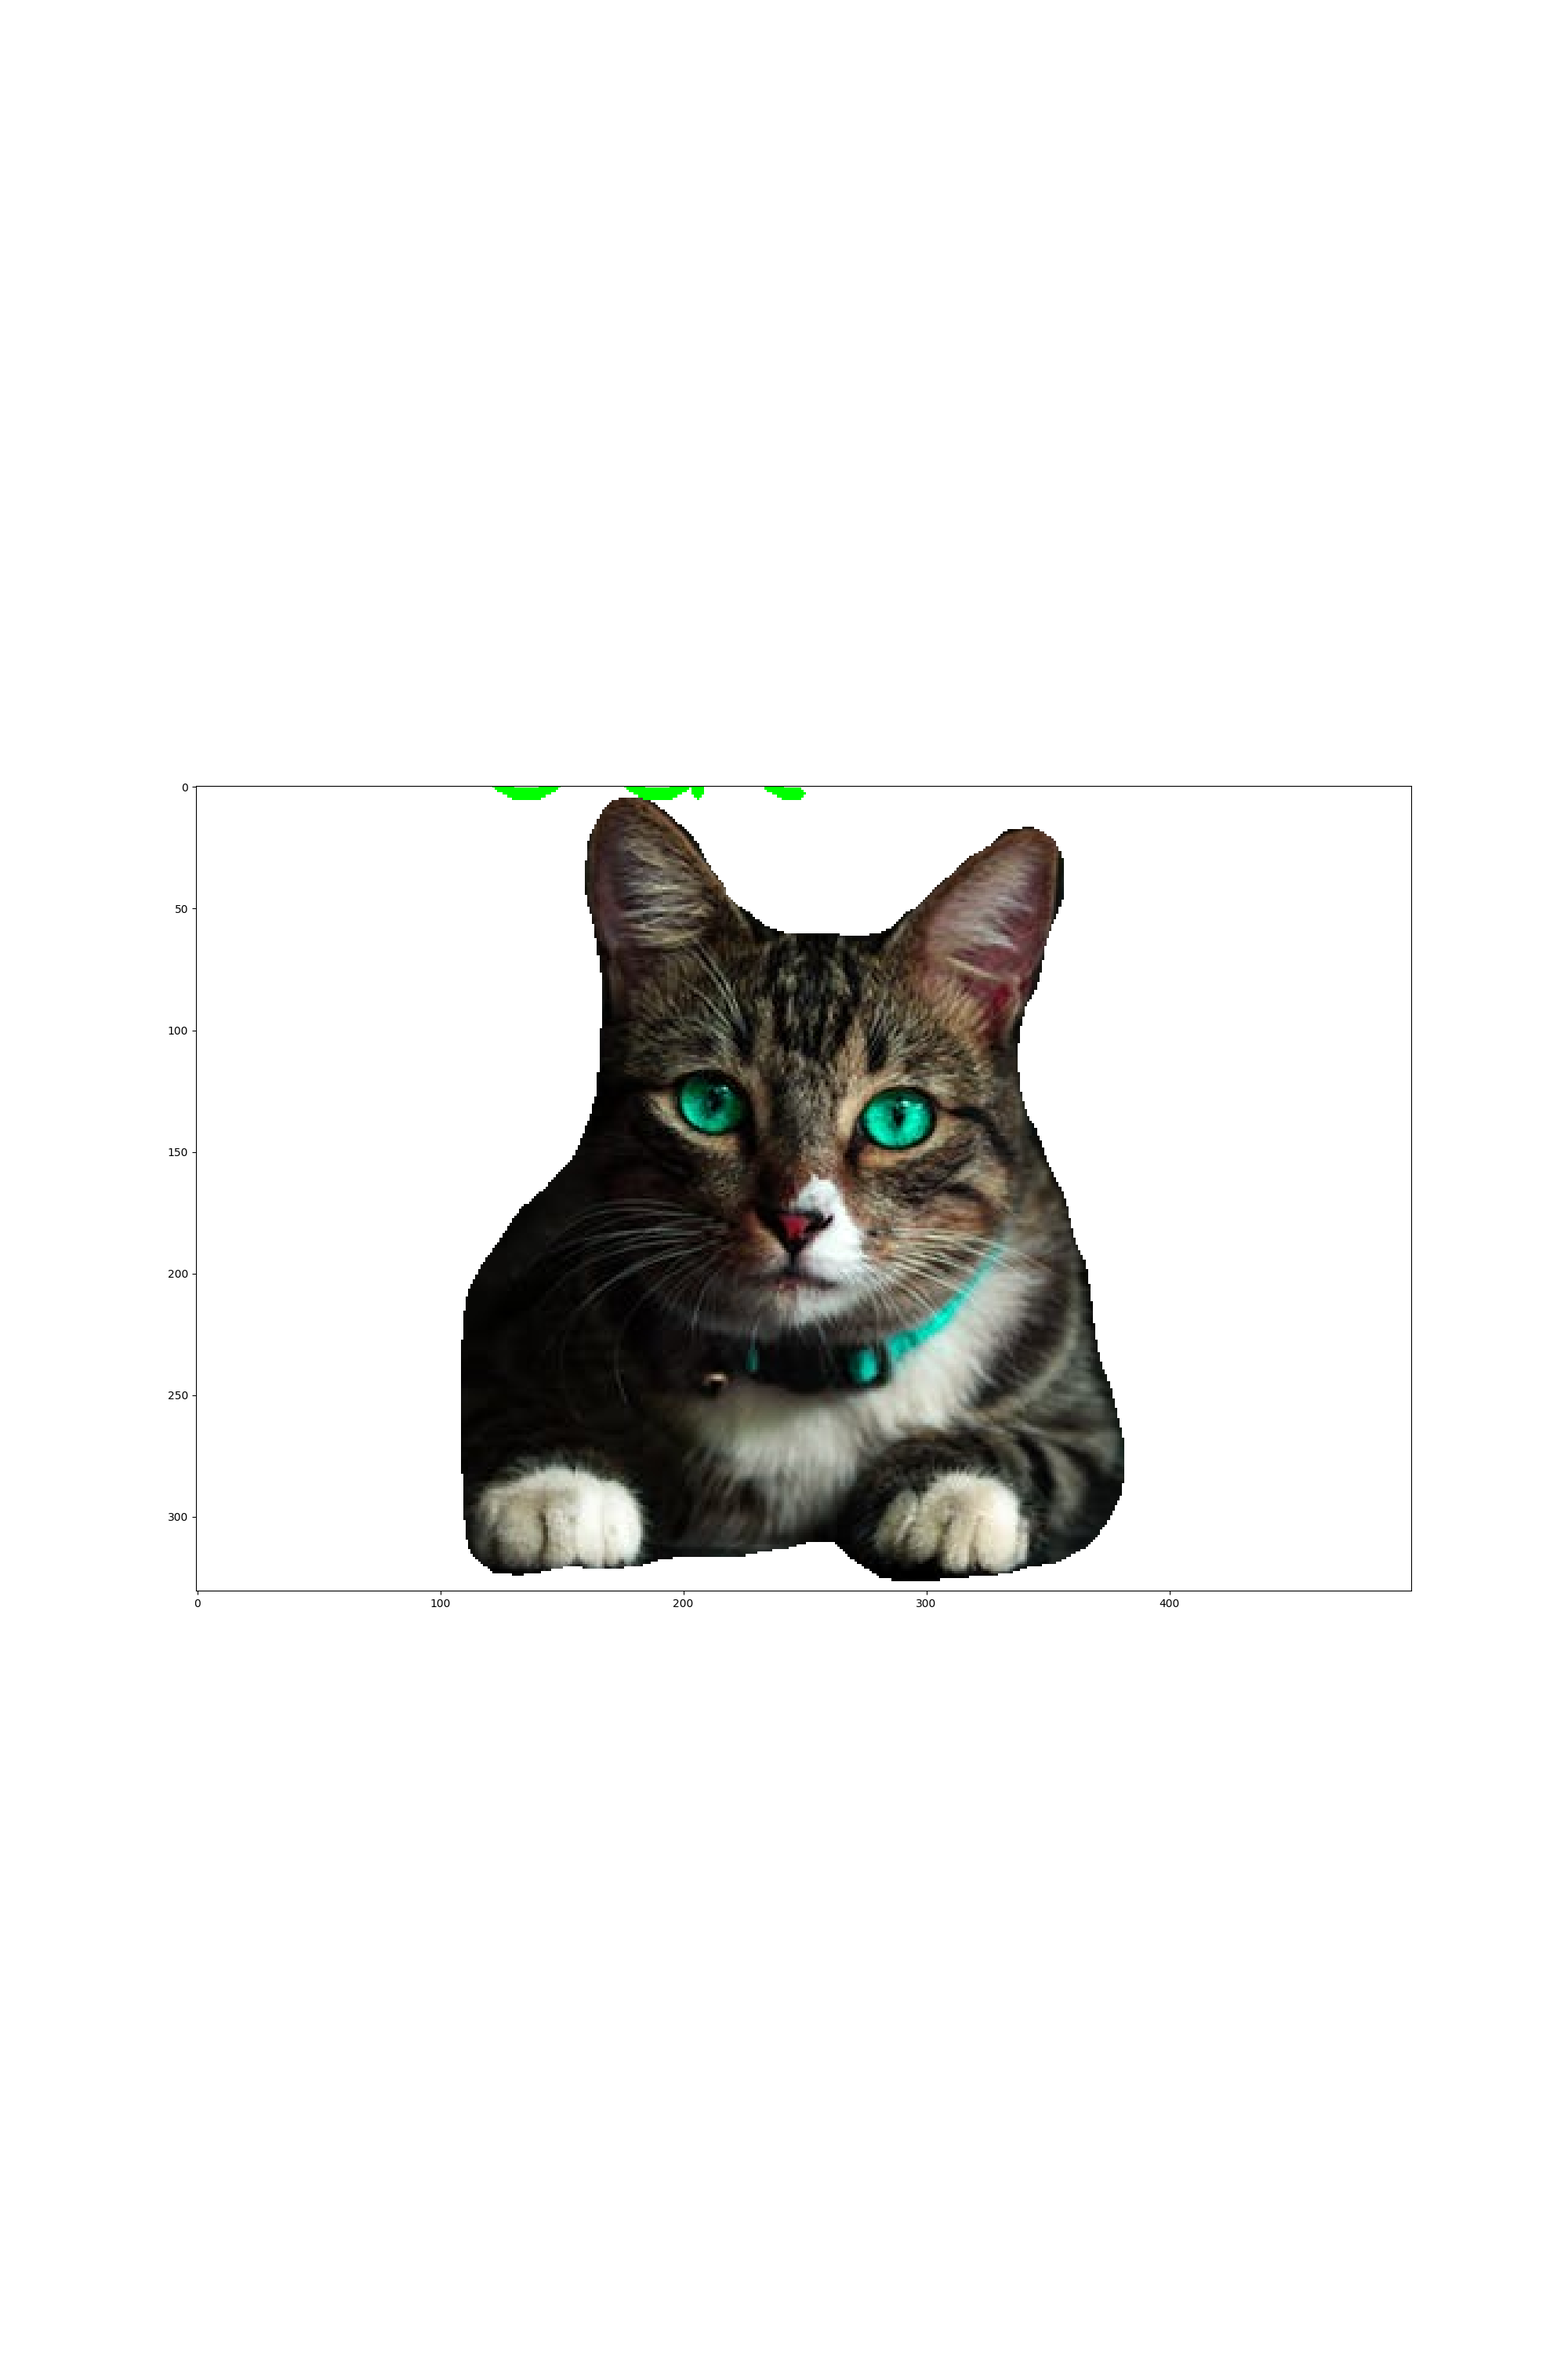
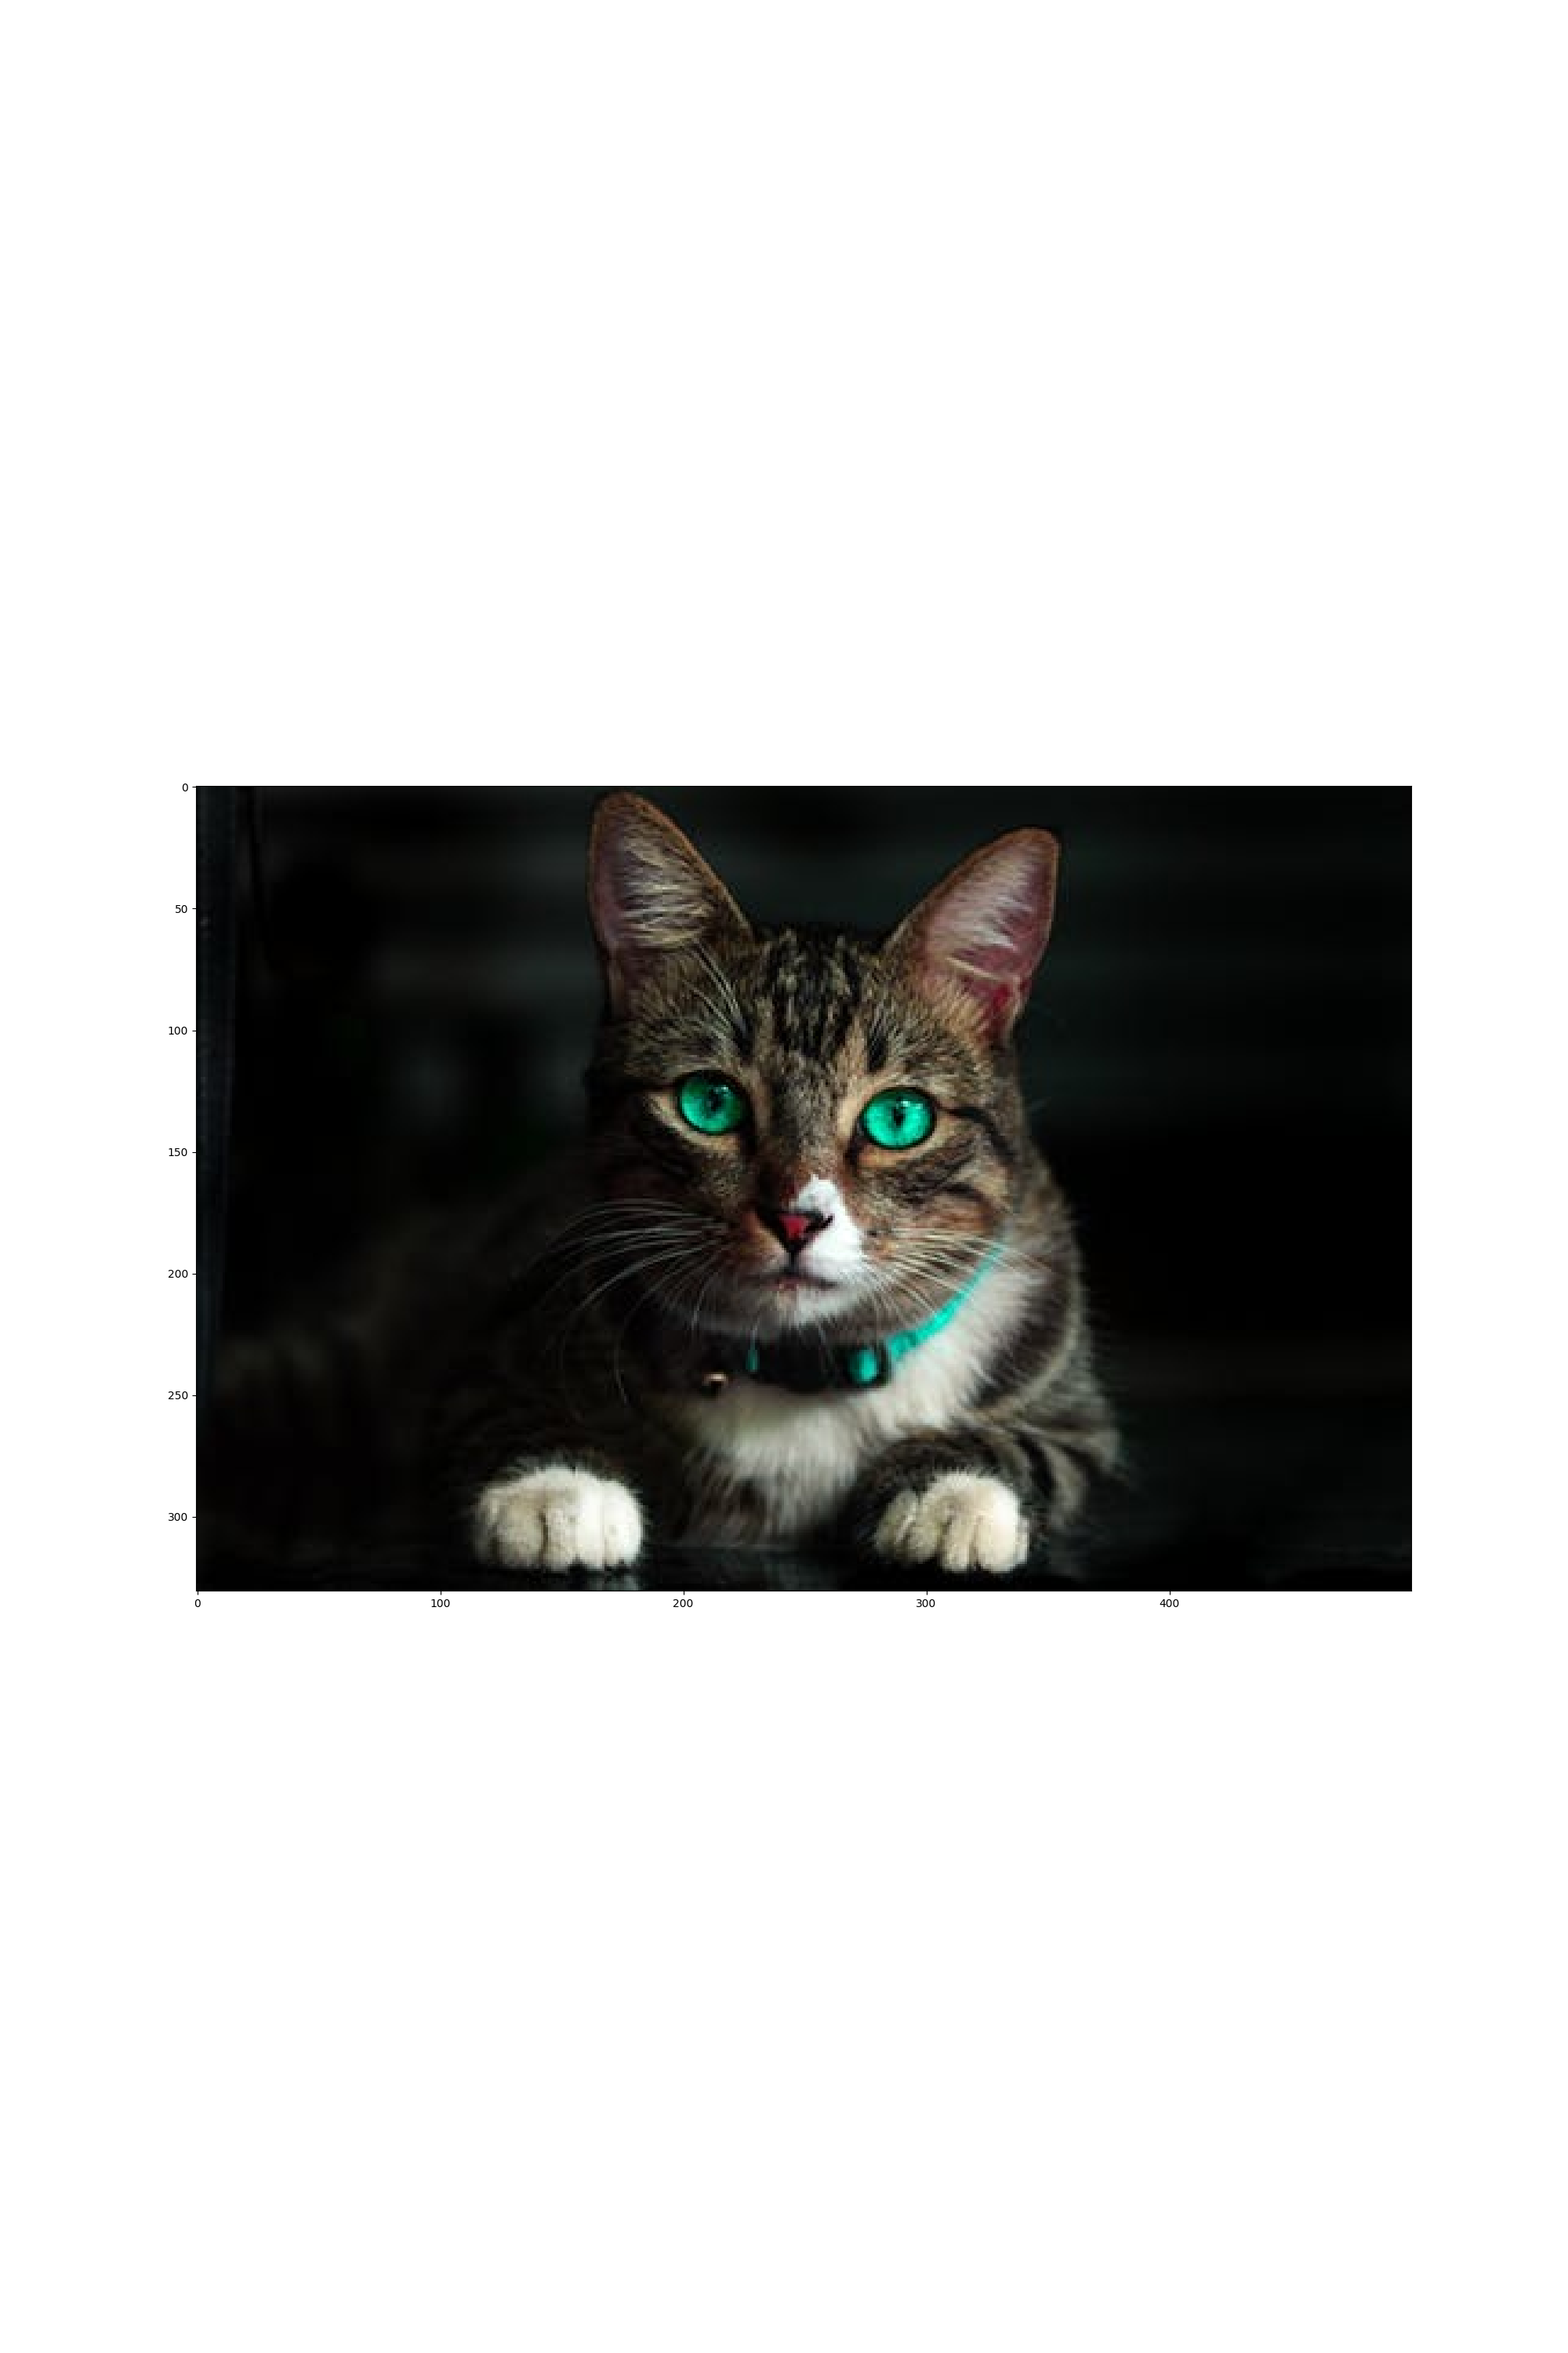
adding the option to choose which class want to be cut

Changed region(s): [[0.124, 0.31, 0.899, 0.682]]

diff --git a/api/src/scripts/run.py b/api/src/scripts/run.py
@@ -53,7 +53,6 @@ def random_colour_masks(image):
   r = np.zeros_like(image).astype(np.uint8)
   g = np.zeros_like(image).astype(np.uint8)
   b = np.zeros_like(image).astype(np.uint8)
-  print(r)
   r[image == 0], g[image == 0], b[image == 0] = [255,255,255]
   coloured_mask = np.stack([r, g, b], axis=2)
   return coloured_mask
@@ -63,12 +62,13 @@ def instance_segmentation_api(img_path, name, threshold=0.5, rect_th=3, text_siz
   masks, boxes, pred_cls = get_prediction(img_path, threshold)
   img = cv2.imread(img_path)
   img = cv2.cvtColor(img, cv2.COLOR_BGR2RGB)
+  label_classes = args.list.split(',')
   for i in range(len(masks)):
-    #if pred_cls[i] == args.class:
-    rgb_mask = random_colour_masks(masks[i])
-    img = cv2.addWeighted(img, 1, rgb_mask, 1, 0)
-    #cv2.rectangle(img, boxes[i][0], boxes[i][1],color=(0, 255, 0), thickness=rect_th)
-    cv2.putText(img,pred_cls[i], boxes[i][0], cv2.FONT_HERSHEY_SIMPLEX, text_size, (0,255,0),thickness=text_th)
+    if pred_cls[i] in label_classes:
+        rgb_mask = random_colour_masks(masks[i])
+        img = cv2.addWeighted(img, 1, rgb_mask, 1, 0)
+        #cv2.rectangle(img, boxes[i][0], boxes[i][1],color=(0, 255, 0), thickness=rect_th)
+        cv2.putText(img,pred_cls[i], boxes[i][0], cv2.FONT_HERSHEY_SIMPLEX, text_size, (0,255,0),thickness=text_th)
   plt.figure(figsize=(20,30))
   plt.imshow(img)
   plt.savefig(os.path.join(args.output, name) + '.png')
@@ -76,7 +76,7 @@ def instance_segmentation_api(img_path, name, threshold=0.5, rect_th=3, text_siz
 
 parser = argparse.ArgumentParser()
 parser.add_argument('--image', type=str, default="/home/gauss/Pictures/Wallpapers/wallpaper.jpg")
-parser.add_argument('--class', type=str, default="human")
+parser.add_argument('-l', '--list', help='Add a list of desired classes', type=str, default="person,cat")
 #parser.add_argument('--image_path', type=str, default="/home/gauss/Pictures/Wallpapers")
 parser.add_argument('--output', type=str, default="./output/")
 args = parser.parse_args()
